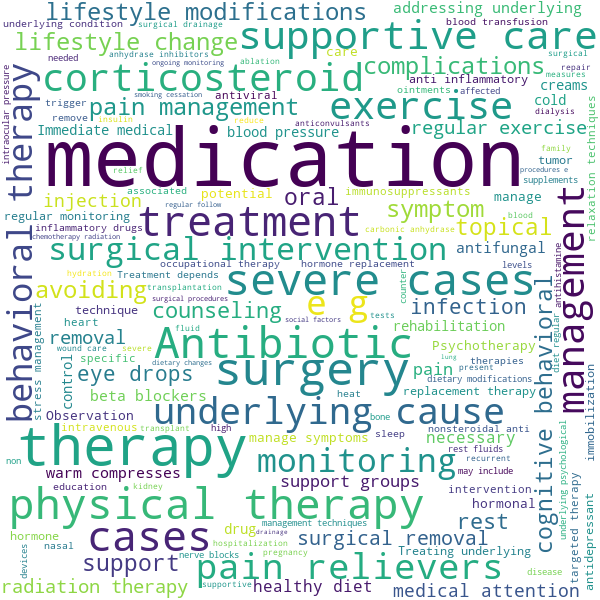
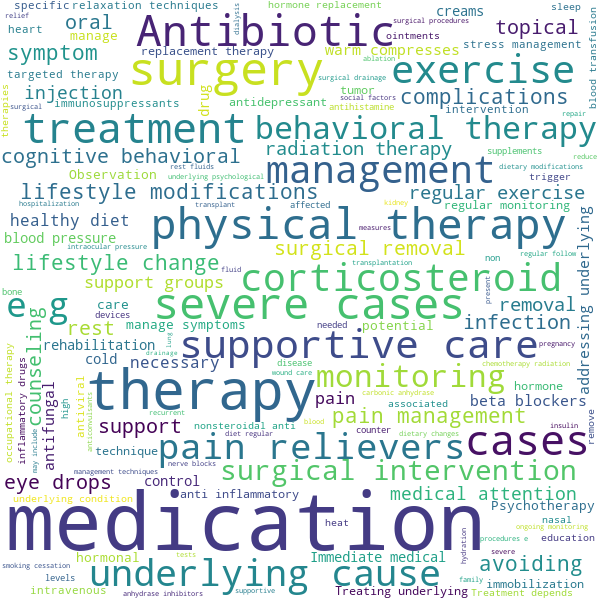
New wordcloud

diff --git a/milestone1/src/plots.py b/milestone1/src/plots.py
@@ -21,6 +21,25 @@ def create_treatments_wordcloud(df, plots_path):
     plots_path = os.path.join(plots_dir, "treatments_wordcloud.png")
     wordcloud.to_file(plots_path)
     print(f"Word cloud saved as 'treatments_wordcloud.png' in {plots_path} directory.")
+
+# creates a wordcloud for the symptoms
+def create_symptoms_wordcloud(df, plots_path):
+    text = " ".join(df["symptoms"].dropna().astype(str))
+    wordcloud = WordCloud(
+        width=600,
+        height=600,
+        background_color="white",
+        colormap="prism",
+        max_words=150
+    ).generate(text)
+    plt.figure(figsize=(12, 8))
+    plt.imshow(wordcloud, interpolation="bilinear")
+    plt.axis("off")
+    plt.title("Word Cloud of Symptoms", fontsize=15, pad=30)
+    plots_path = os.path.join(plots_dir, "symptoms_wordcloud.png")
+    wordcloud.to_file(plots_path)
+    print(f"Word cloud saved as 'symptoms_wordcloud.png' in {plots_path} directory.")
+
  
 
 # creates a plot showing the top 10 most common diseases
@@ -93,6 +112,7 @@ if __name__ == "__main__":
     
     symptom_counts_total, summary_data, unique_symptom_counts, total_mention_counts = create_summary_analysis(df, "data/final/analysis.txt", plots_dir)
     create_treatments_wordcloud(df, plots_dir)
+    create_symptoms_wordcloud(df, plots_dir)
     top_10_diseases_plot(summary_data, plots_dir)
     top_20_symptoms_plot(symptom_counts_total, plots_dir)
     unique_symptoms_per_disease(unique_symptom_counts, plots_dir)
